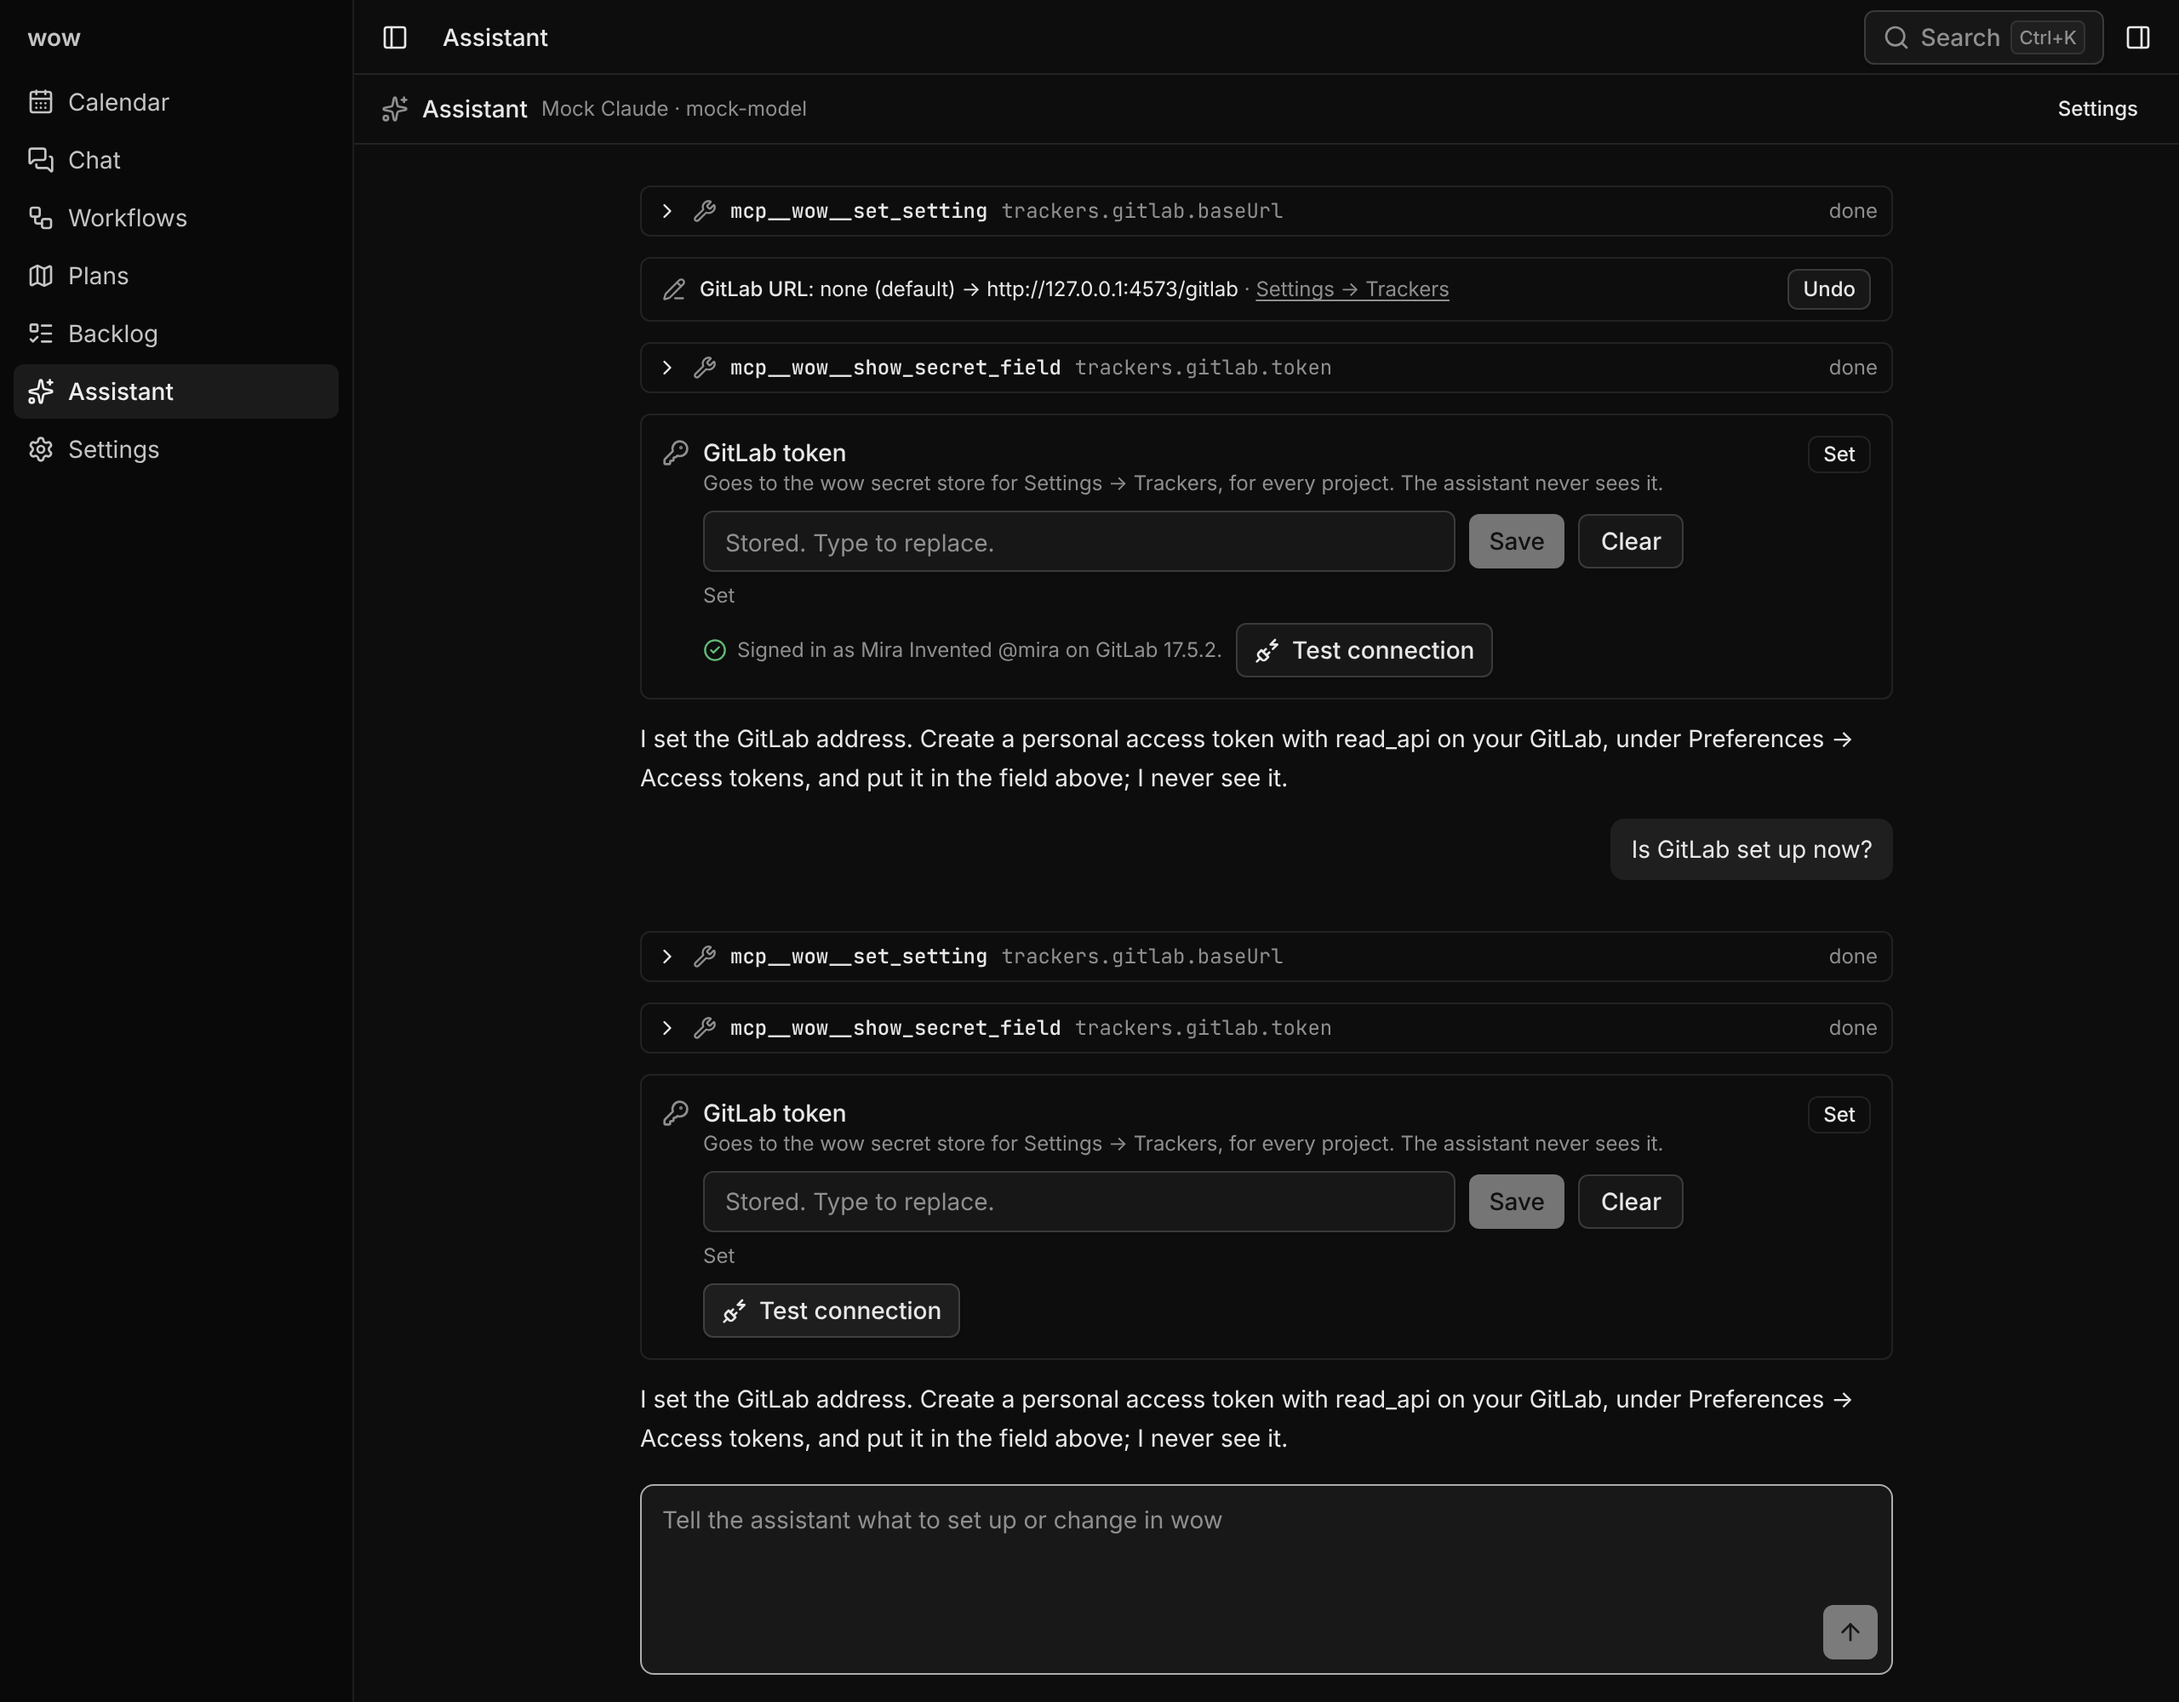
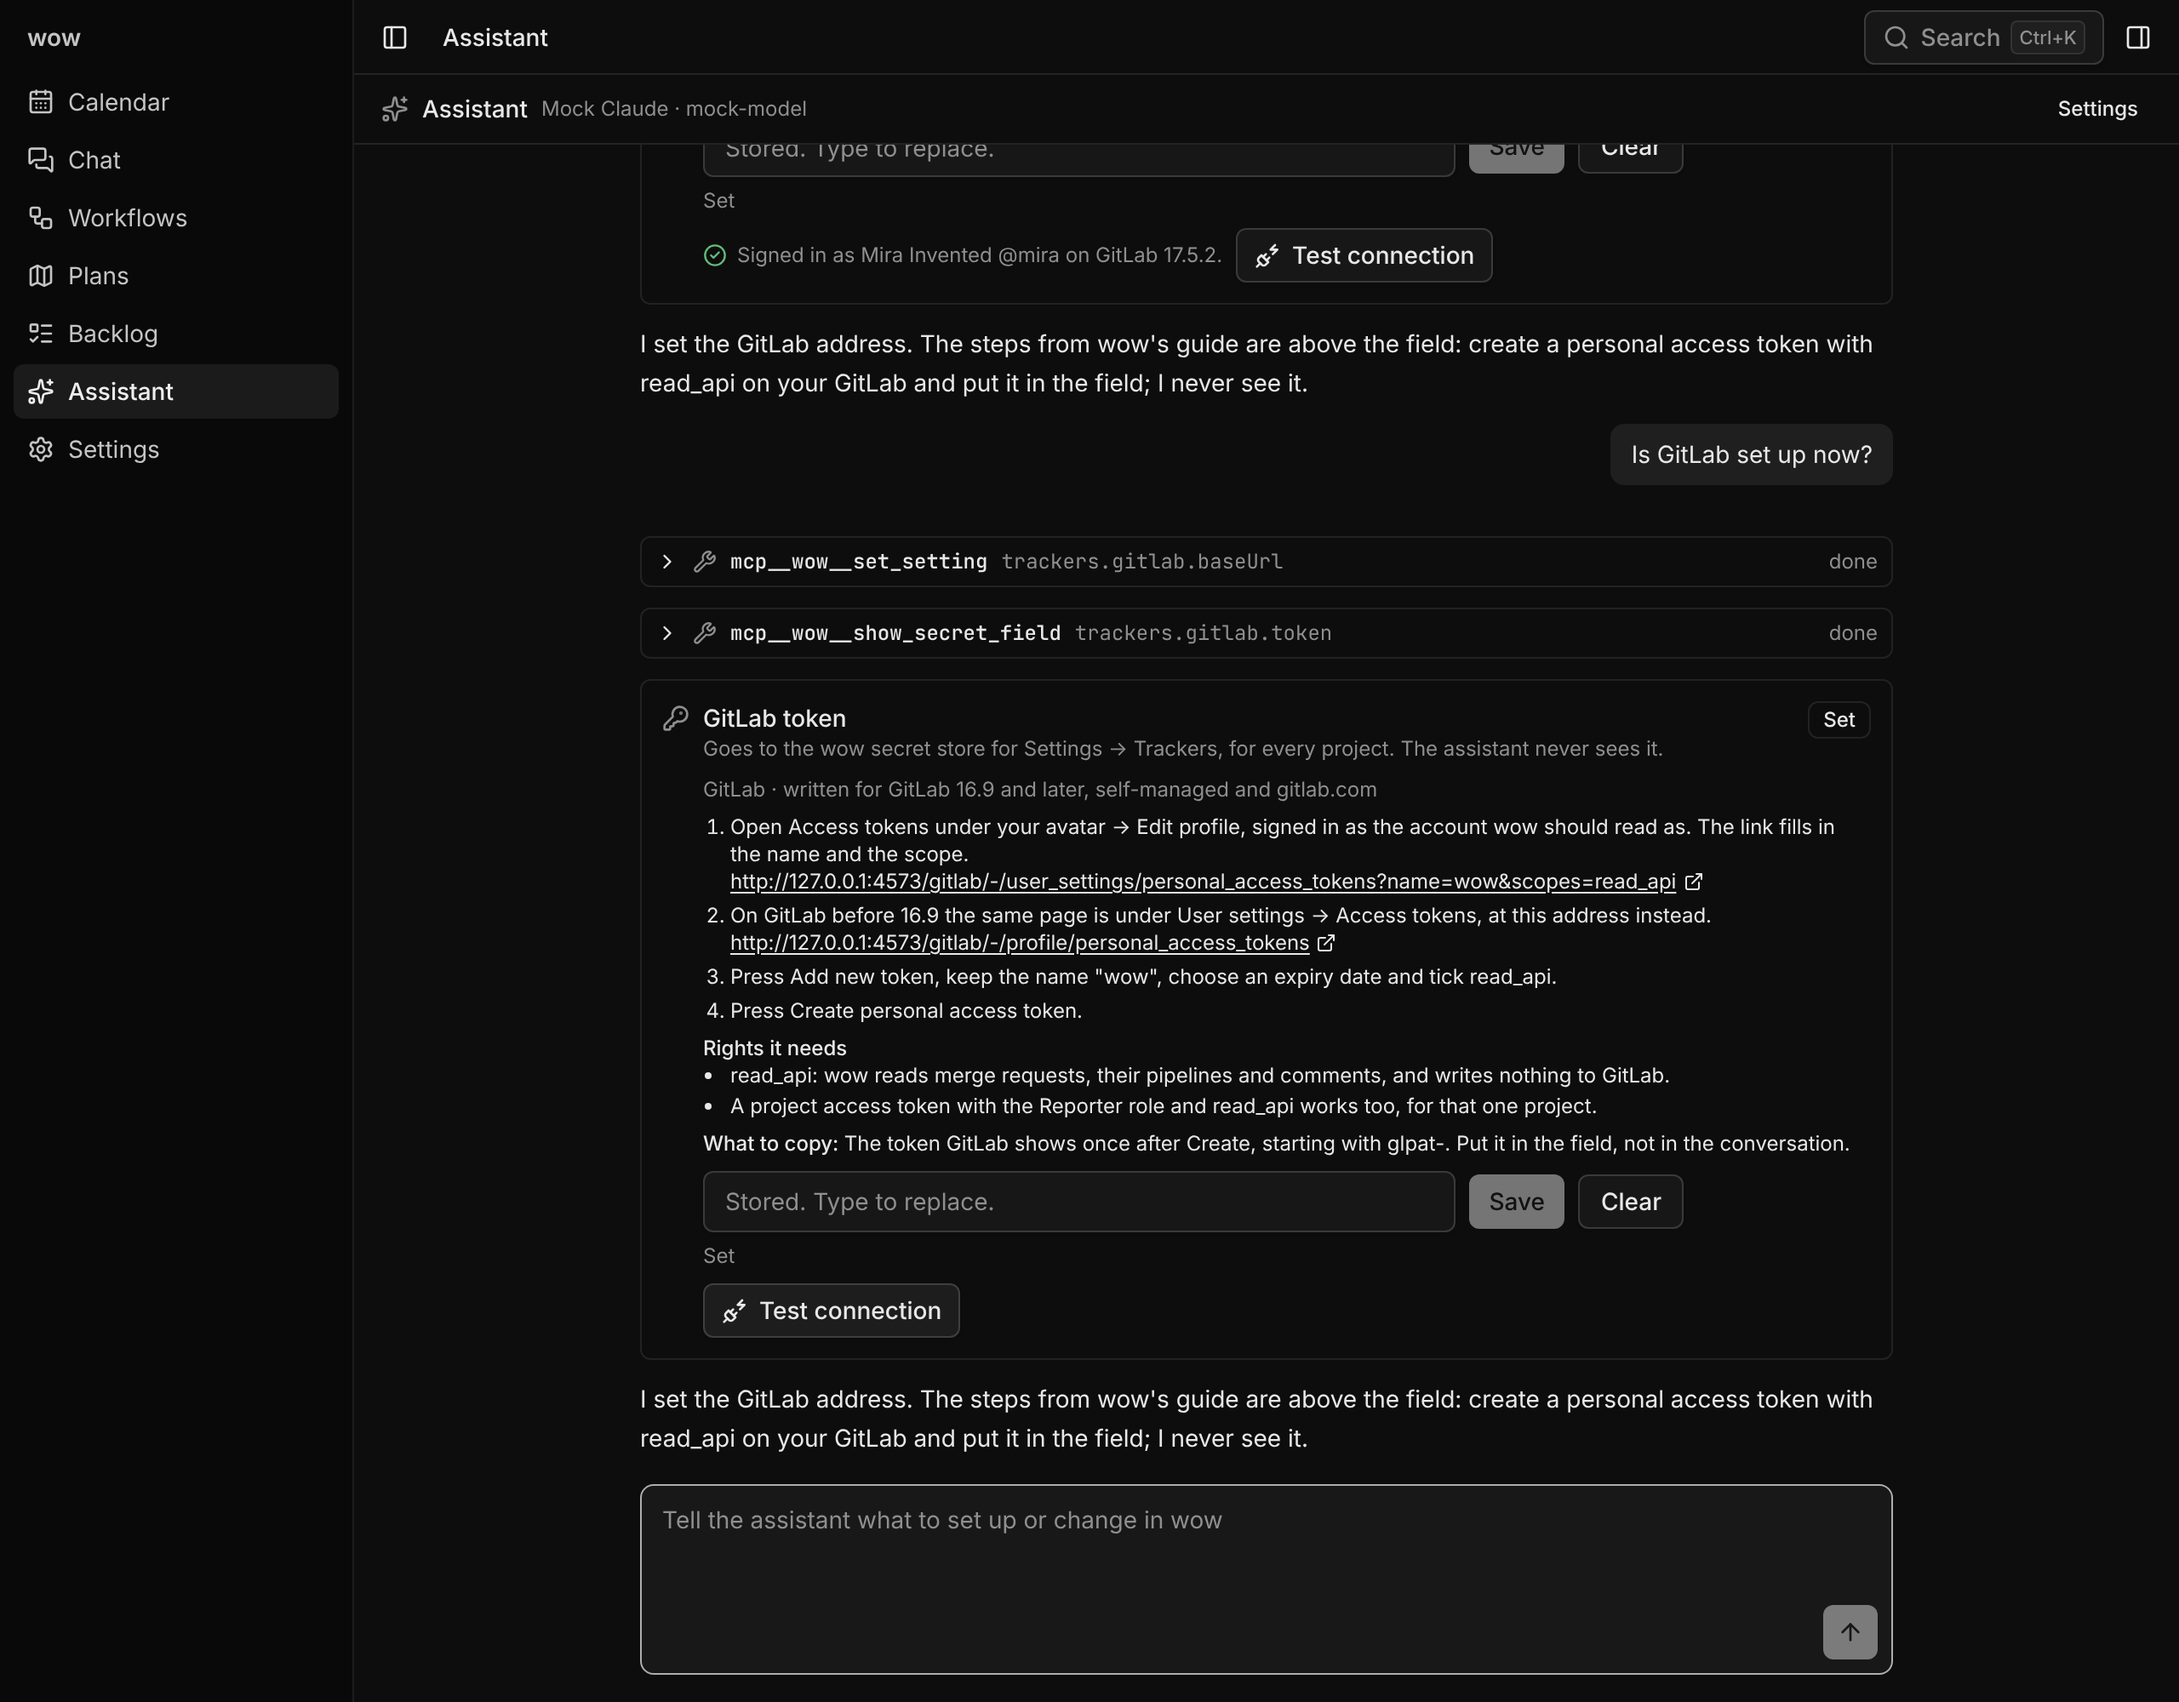
Cover the guide and the diagnosis end to end and refresh the secret field sketch
Intent-Unit: 2026-11-app-assistant/U4
Claude-Session: https://claude.ai/code/session_01VRt76SVEek2WrLUdNHRh2X

diff --git a/apps/web/e2e/assistant-agent.ts b/apps/web/e2e/assistant-agent.ts
@@ -19,7 +19,35 @@ const userText = (prompt: string) => prompt.split('\n\n').at(-1) ?? prompt;
 const noteOf = (prompt: string) =>
   prompt.startsWith('[From wow') ? prompt.slice(0, prompt.lastIndexOf('\n\n')) : null;
 
-function scenario(text: string, trackerUrl: string): { steps: Step[]; answer: string } {
+interface Scenario {
+  readonly steps: Step[];
+  readonly answer: string;
+  // An answer made from what the tools answered, in the order called.
+  readonly reply?: (results: readonly string[]) => string;
+}
+
+interface Problem {
+  readonly what: string;
+  readonly reason: string;
+  readonly place: { readonly label: string };
+}
+
+// What a real agent would say from diagnose_setup's answer: each failing thing with its reason
+// and place, or that nothing fails.
+function diagnosisReply(results: readonly string[]): string {
+  const { summary, problems } = JSON.parse(results[0] ?? '{}') as {
+    summary?: string;
+    problems?: Problem[];
+  };
+  return [
+    summary ?? 'wow did not answer.',
+    ...(problems ?? []).map(
+      (problem) => `- ${problem.what}: ${problem.reason} Fix it in ${problem.place.label}.`,
+    ),
+  ].join('\n');
+}
+
+function scenario(text: string, trackerUrl: string): Scenario {
   if (/work hours/i.test(text)) {
     return {
       steps: [
@@ -57,7 +85,14 @@ function scenario(text: string, trackerUrl: string): { steps: Step[]; answer: st
         { tool: 'show_secret_field', args: { key: 'trackers.gitlab.token' } },
       ],
       answer:
-        'I set the GitLab address. Create a personal access token with read_api on your GitLab, under Preferences → Access tokens, and put it in the field above; I never see it.',
+        "I set the GitLab address. The steps from wow's guide are above the field: create a personal access token with read_api on your GitLab and put it in the field; I never see it.",
+    };
+  }
+  if (/not work/i.test(text)) {
+    return {
+      steps: [{ tool: 'diagnose_setup', args: {} }],
+      answer: '',
+      reply: diagnosisReply,
     };
   }
   if (/kettle test/i.test(text)) {
@@ -97,7 +132,8 @@ export class AssistantMockAgent implements ProviderAdapter {
 
   async #turn(threadId: string, prompt: string): Promise<void> {
     const text = userText(prompt);
-    const { steps, answer } = scenario(text, this.#trackerUrl);
+    const { steps, answer, reply: replyOf } = scenario(text, this.#trackerUrl);
+    const results: string[] = [];
     this.#emit({ type: 'session', threadId, providerSessionId: `assistant-session-${threadId}` });
     for (const step of steps) {
       const itemId = `${threadId}-tool-${++made}`;
@@ -109,6 +145,7 @@ export class AssistantMockAgent implements ProviderAdapter {
         input: step.args,
       });
       const result = await this.#tools().call(step.tool, step.args);
+      results.push(result.text);
       this.#emit({ type: 'toolCallOutput', threadId, itemId, output: result.text });
       this.#emit({
         type: 'toolCallCompleted',
@@ -118,9 +155,10 @@ export class AssistantMockAgent implements ProviderAdapter {
       });
     }
     const note = noteOf(prompt);
+    const said = replyOf ? replyOf(results) : answer;
     const reply = note
-      ? `${answer}\n\nwow told me:\n\n${note.split('\n').slice(1).join('\n')}`
-      : answer;
+      ? `${said}\n\nwow told me:\n\n${note.split('\n').slice(1).join('\n')}`
+      : said;
     this.#emit({
       type: 'textDelta',
       threadId,

diff --git a/apps/web/e2e/assistant.spec.ts b/apps/web/e2e/assistant.spec.ts
@@ -136,6 +136,14 @@ test.describe('assistant', () => {
       'Settings → Trackers, for every project',
     );
     await expect(card.getByTestId('assistant-secret-state')).toHaveText('Not set');
+    // The guide wow ships for GitLab, built from the address just set (U4, spec 15).
+    const guide = card.getByRole('group', { name: 'Token guide for GitLab' });
+    await expect(guide).toContainText('written for GitLab 16.9 and later');
+    await expect(guide).toContainText('read_api');
+    await expect(guide.getByRole('link').first()).toHaveAttribute(
+      'href',
+      /\/gitlab\/-\/user_settings\/personal_access_tokens\?name=wow&scopes=read_api$/,
+    );
 
     const field = card.getByLabel('GitLab token');
     await expect(field).toHaveAttribute('type', 'password');
@@ -207,6 +215,22 @@ test.describe('assistant', () => {
     await held.getByRole('button', { name: 'Send anyway' }).click();
     await expect(users).toHaveCount(sent + 1);
     await expect(composer(page)).toHaveValue('');
+  });
+
+  test('the assistant says why it does not work @app-assistant-19 @app-assistant-20', async ({
+    page,
+  }) => {
+    await page.goto('/assistant');
+    await say(page, 'Why does this not work?');
+    const tool = conversation(page).getByTestId('item-tool_call').last();
+    await expect(tool).toContainText('diagnose_setup');
+    const reply = conversation(page).getByTestId('item-assistant_text').last();
+    await expect(reply).toContainText(/\d+ things? (is|are) failing\./);
+    // The seeded workflow names a skill that is not installed; the reply says so and where.
+    await expect(reply).toContainText(
+      'Workflow Brew report, step report: It runs the skill brew-report, which is not installed on this machine.',
+    );
+    await expect(reply).toContainText('Fix it in Workflows → Brew report.');
   });
 
   test('the assistant offers to take project work to the chat view @app-assistant-3', async ({

diff --git a/apps/web/e2e/server.ts b/apps/web/e2e/server.ts
@@ -26,6 +26,7 @@ import { createServer, type IncomingMessage } from 'node:http';
 import path from 'node:path';
 import { crc32, deflateSync } from 'node:zlib';
 import {
+  e2eAssistantBrokenWorkflowId,
   e2eAssistantHome,
   e2eBinDir,
   e2eBinary,
@@ -993,6 +994,27 @@ if (home === e2ePanelHome) {
     body: 'Invented notes for the panel tests.',
     projectId: e2eProjectId,
     workflowId: e2ePanelWorkflowId,
+  });
+}
+
+if (home === e2eAssistantHome) {
+  server.engine.dispatch('seed-assistant-broken-workflow', {
+    type: 'workflow.create',
+    workflowId: e2eAssistantBrokenWorkflowId,
+    name: 'Brew report',
+    steps: [
+      {
+        id: 'report',
+        skillName: 'brew-report',
+        providerInstanceId: e2eProviderInstanceId,
+        model: 'mock-model',
+        effort: 'default',
+        permissionMode: 'default',
+        gateBefore: false,
+        gateAfter: true,
+        expectedArtifacts: [],
+      },
+    ],
   });
 }
 

diff --git a/apps/web/e2e/env.ts b/apps/web/e2e/env.ts
@@ -159,5 +159,8 @@ export const e2eAssistantHome = path.join(tmpdir(), 'wow-e2e-assistant-home');
 export const e2eAssistantPort = 4571;
 export const e2eAssistantOutlookControlPort = 4572;
 export const e2eAssistantTrackerPort = 4573;
+// A workflow only the assistant's server has, whose step names a skill that is not installed,
+// so the diagnosis has something to say (app assistant U4).
+export const e2eAssistantBrokenWorkflowId = 'assistant-e2e-broken';
 // The token the mock GitLab accepts, typed into the assistant's secret field.
 export const e2eGitLabToken = 'gitlab-host-e2e-token';
